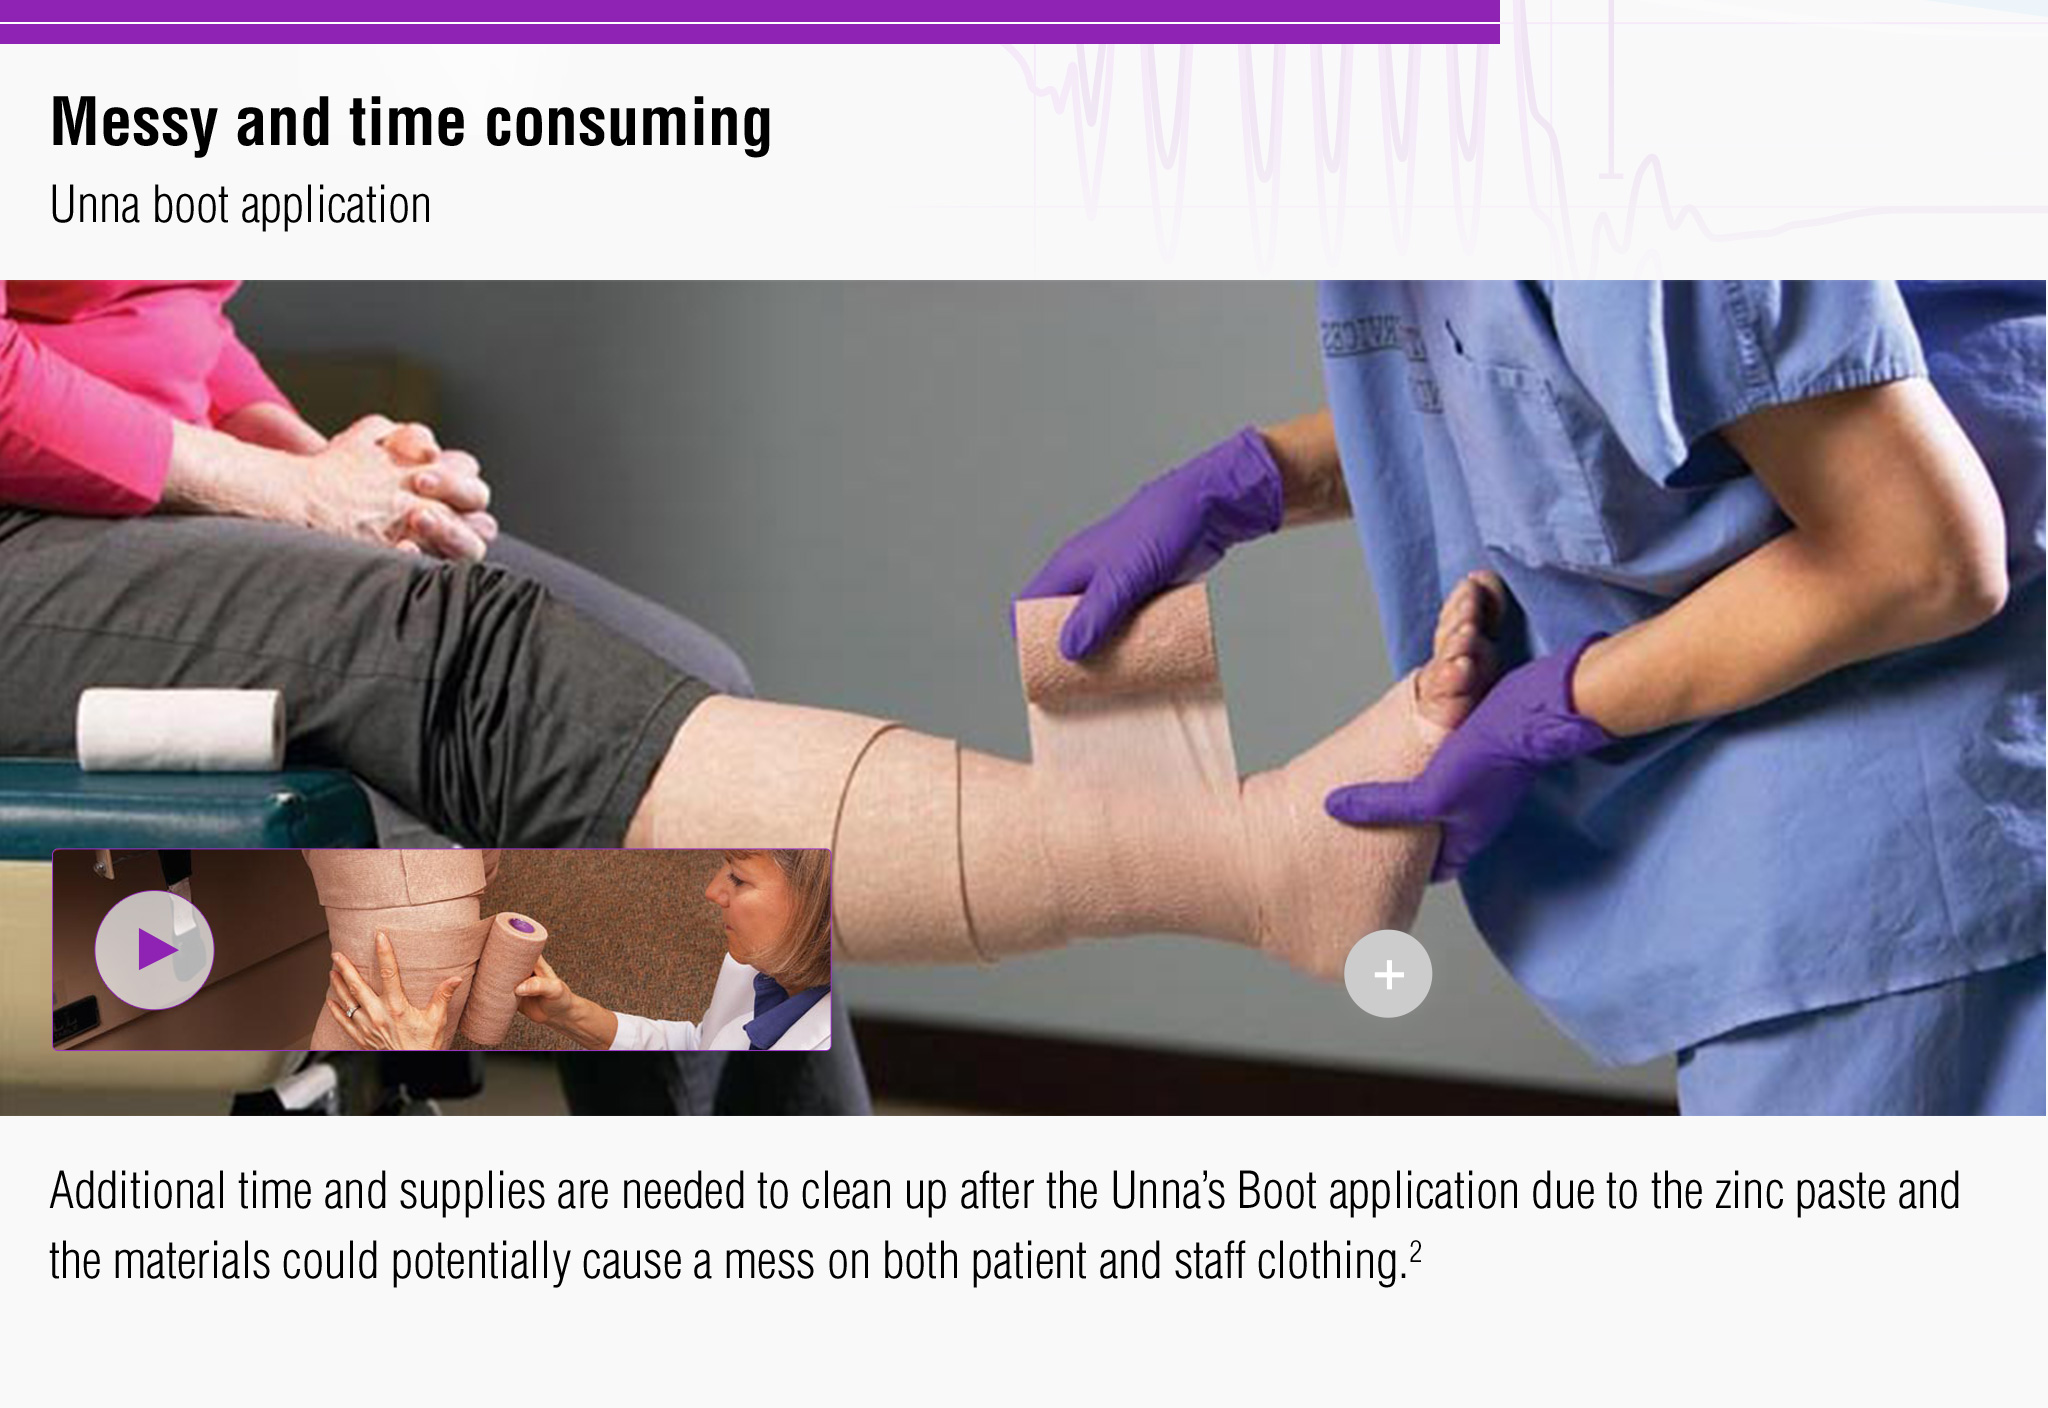
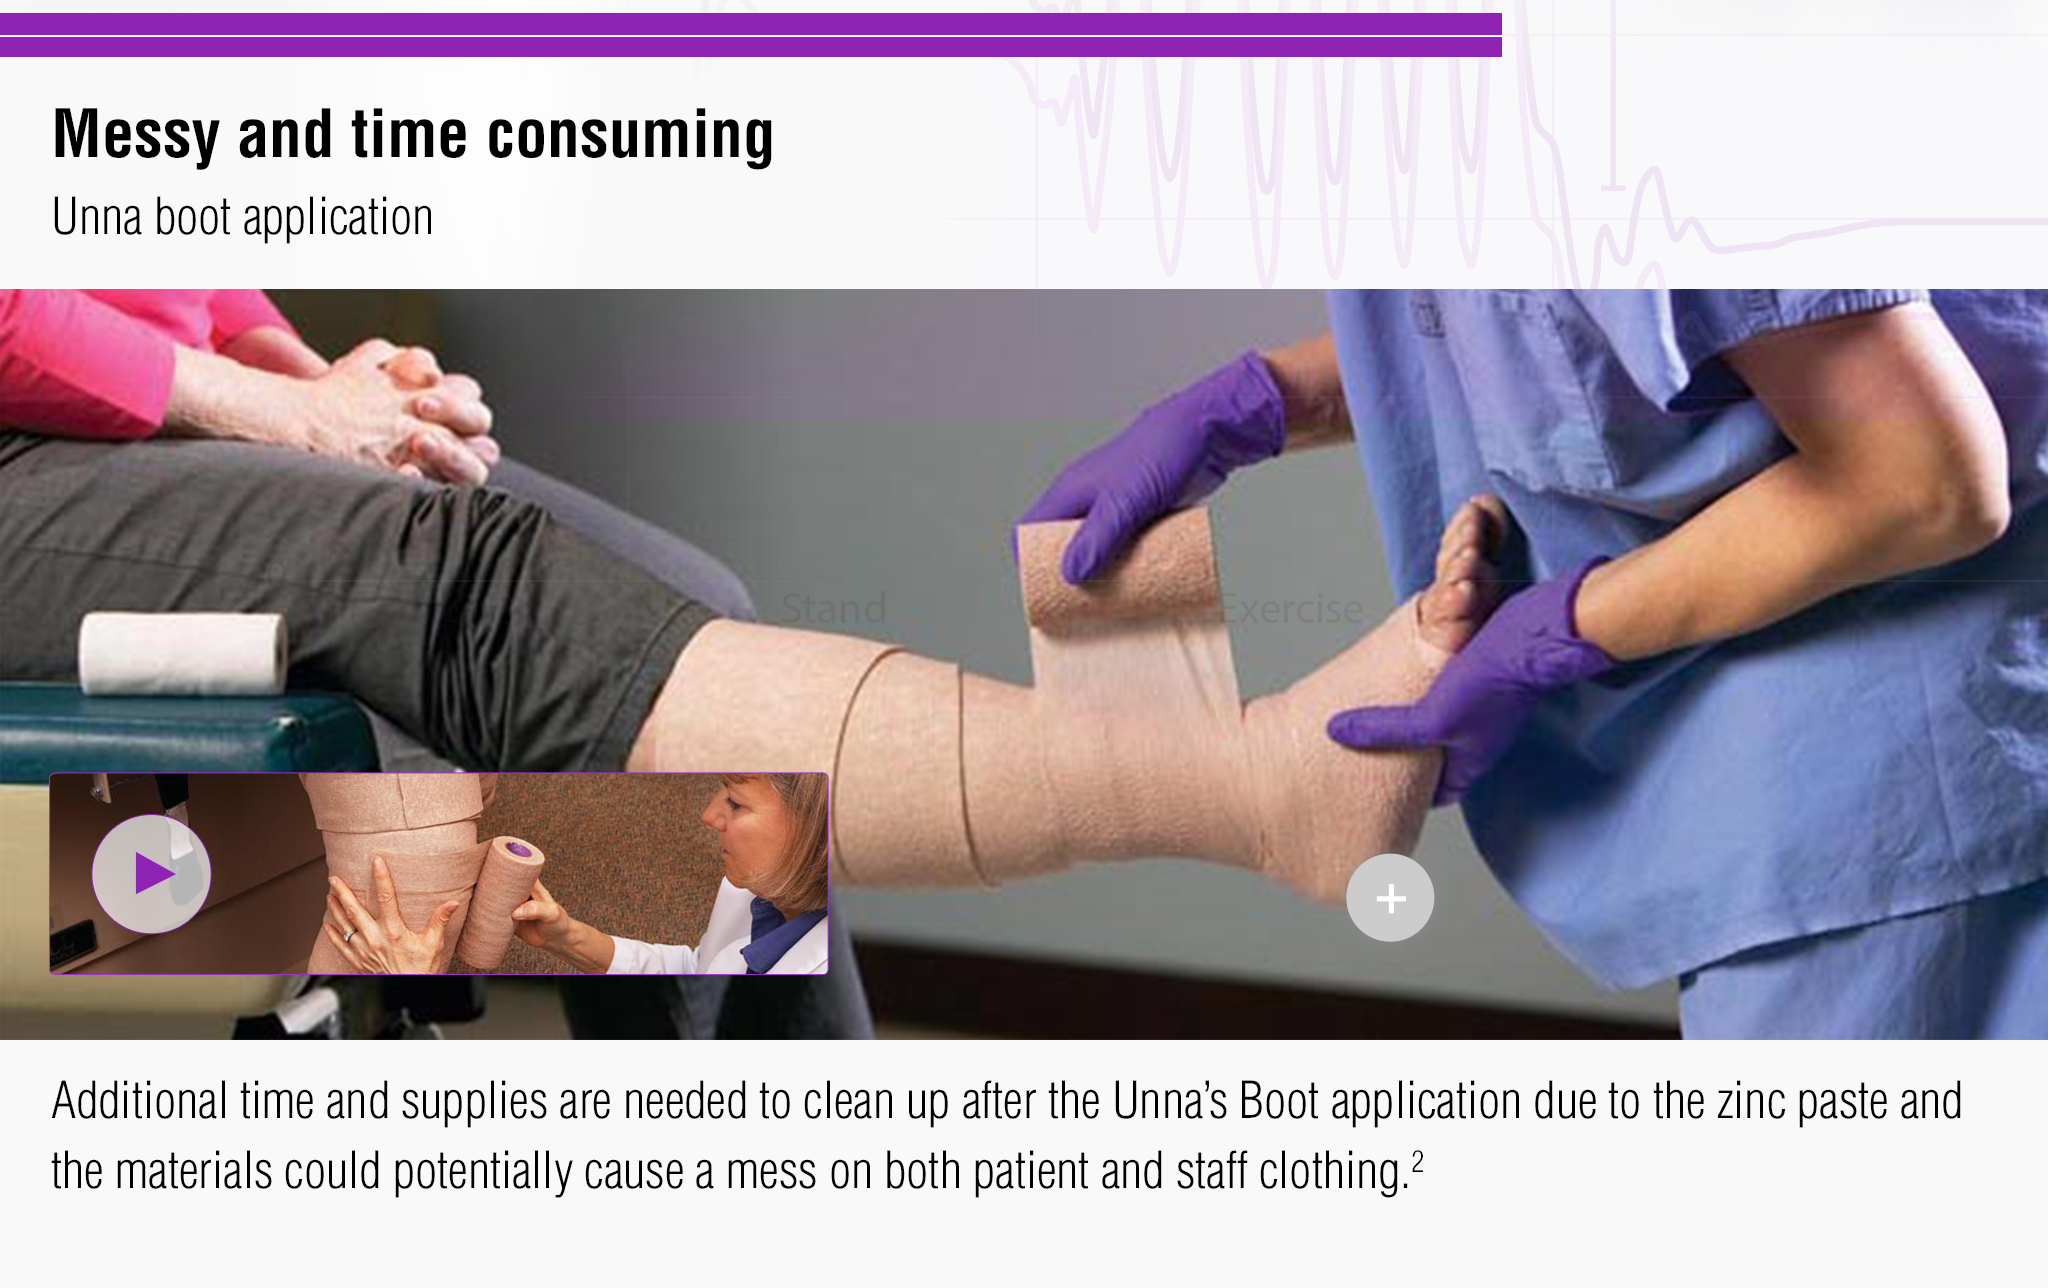
Final Demo

Changed region(s): [[0.0, 0.0, 1.0, 0.8075], [0.0, 0.8385, 0.9688, 0.9317], [0.4688, 0.528, 0.5, 0.559]]

diff --git a/app/data/presentation-content/chapter_1/slide_1/content.html b/app/data/presentation-content/chapter_1/slide_1/content.html
@@ -3,7 +3,7 @@
         <div class="swiper-slide verticalSlide1">
             <img src="data/presentation-content/chapter_1/slide_1/1.jpg" class="dummyContent mainBackground" />
         </div>
-        <div class="swiper-slide verticalSlide2"><img src="data/presentation-content/chapter_1/slide_1/1-2.jpg" class="dummyContent" /></div>
+        <div class="swiper-slide verticalSlide2"><img src="data/presentation-content/chapter_1/slide_1/1.2.jpg" class="dummyContent" /></div>
     </div>
 </div>
 
@@ -28,17 +28,19 @@ $(document).ready(function() {
     });
     function animateOnEnter(event){
         if(event.currentSubSlide === 1) {
-            $(".brianWave").css("opacity", "1");
-            $(".hairBubbles1").css("opacity", "1");
+            $(".wave").css("opacity", "1");
+            $(".hairBubble").css("opacity", "1");
         } else if (event.currentSubSlide === 2) {
-            $(".brianWave").css("opacity", "0");
-            $(".hairBubbles1").css("opacity", "0");
+            $(".wave").css("opacity", "0");
+            $(".hairBubble").css("opacity", "0");
         } else if (event.currentSubSlide === 3) {
             
         }
     }
     function animateOnLeave(event){
-        $(".hairBubbles1").css("top", "550px");
+        $(".wave").css("opacity", "1");
+        $(".hairBubble").css("opacity", "1");
+        $(".hairBubble").css("top", "500px");
     }
     function resetAnimation(event){
 

diff --git a/app/data/presentation-content/universal/universalStyles.scss b/app/data/presentation-content/universal/universalStyles.scss
@@ -1,0 +1,31 @@
+  .parallaxHolder {
+    width:1024px;
+    height:auto;
+    margin:0 auto;
+    position:relative;
+    pointer-events:none;
+
+      .wave {
+        position:absolute;
+        top:450px;
+        left:0;
+        z-index:2997;
+        -webkit-backface-visibility: hidden;
+        -webkit-perspective: 1000;
+        -webkit-transform: translate3d(0, 0, 0);
+        -webkit-transition: all 0.75s ease-out;
+        cursor:none;
+      }
+
+      .hairBubble {
+        position:absolute;
+        top:500px;
+        left:0;
+        z-index:2998;
+        -webkit-backface-visibility: hidden;
+        -webkit-perspective: 1000;
+        -webkit-transform: translate3d(0, 0, 0);
+        -webkit-transition: all 0.75s ease-out;
+        cursor:none;
+      }
+  }

diff --git a/app/index.html b/app/index.html
@@ -20,9 +20,9 @@
 <div class="main-container">
 
   <!-- overlay -->
-  <div class="waves" style="width:1024px; height:auto; margin:0 auto; position:relative; pointer-events:none">
-    <div class="brianWave" style="position:absolute; top:450px; left:0; z-index:2997; -webkit-transition: all 0.5s ease-out; cursor:none"><img src="images/wave.png" /></div>
-    <div class="hairBubbles1" style="position:absolute; top:550px; left:0; z-index:2998; -webkit-transition: all 0.5s ease-out; cursor:none"><img src="images/hairBubbles1.png" /></div>
+  <div class="parallaxHolder">
+    <div class="wave"><img src="images/wave.png" /></div>
+    <div class="hairBubble"><img src="images/hairBubbles1.png" /></div>
   </div>
 
     <div class="main-slider swiper-container">

diff --git a/app/styles/universalStyles.css b/app/styles/universalStyles.css
@@ -1,0 +1,29 @@
+.parallaxHolder {
+  width: 1024px;
+  height: auto;
+  margin: 0 auto;
+  position: relative;
+  pointer-events: none;
+}
+.parallaxHolder .wave {
+  position: absolute;
+  top: 450px;
+  left: 0;
+  z-index: 2997;
+  -webkit-backface-visibility: hidden;
+  -webkit-perspective: 1000;
+  -webkit-transform: translate3d(0, 0, 0);
+  -webkit-transition: all 0.75s ease-out;
+  cursor: none;
+}
+.parallaxHolder .hairBubble {
+  position: absolute;
+  top: 500px;
+  left: 0;
+  z-index: 2998;
+  -webkit-backface-visibility: hidden;
+  -webkit-perspective: 1000;
+  -webkit-transform: translate3d(0, 0, 0);
+  -webkit-transition: all 0.75s ease-out;
+  cursor: none;
+}

diff --git a/app/data/presentation-content/universal/universalScripts.js b/app/data/presentation-content/universal/universalScripts.js
@@ -19,8 +19,8 @@ $(function () {
 
 
         //move('.brianWave').x(modSwiperProgress).duration(300).end();
-        $(".brianWave").css("left", "" + modSwiperProgress + "px");
-        $(".hairBubbles1").css("left", "" + (modSwiperProgress * -.8) + "px");
+        $(".wave").css("left", "" + modSwiperProgress + "px");
+        $(".hairBubble").css("left", "" + (modSwiperProgress * -.8) + "px");
 
 
         //Do something with common swiper progress

diff --git a/app/data/presentation-content/chapter_1/slide_2/content.html b/app/data/presentation-content/chapter_1/slide_2/content.html
@@ -54,7 +54,9 @@ $(document).ready(function() {
         }
     }
     function animateOnLeave(event){
-        $(".hairBubbles1").css("top", "450px");
+        $(".hairBubble").css("top", "450px");
+        $(".wave").css("opacity", "1");
+        $(".hairBubble").css("opacity", "1");
     }
     function resetVerticalSlideAnimation(event){
         if(event.currentSubSlide !== 1) {

diff --git a/app/scripts/slides.js b/app/scripts/slides.js
@@ -451,7 +451,7 @@ $(document).on('onTemplateRenderComplete', function () {
     });
 
     $slides.swiper({
-        speed: 500,
+        speed: 750,
         mode: 'horizontal',
         queueEndCallbacks: true,
         progress: true,
